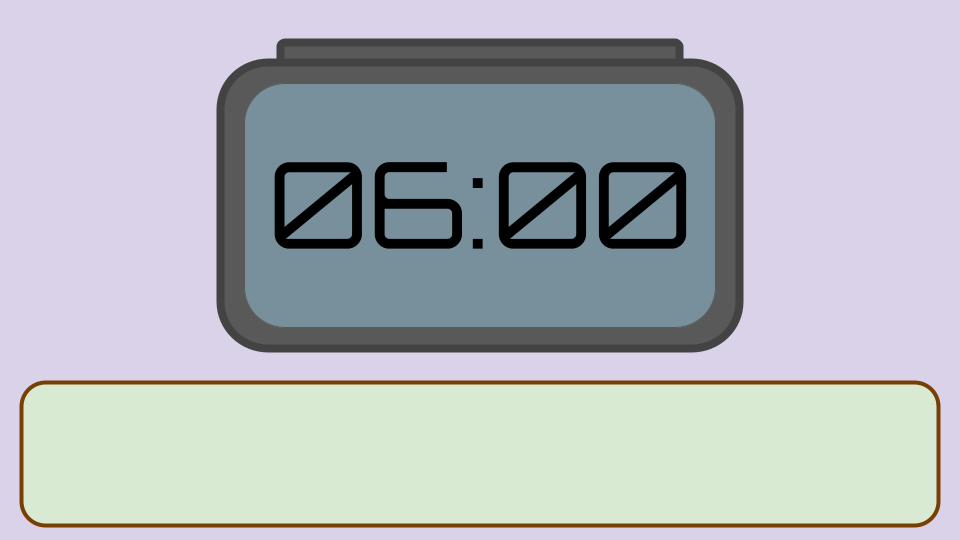
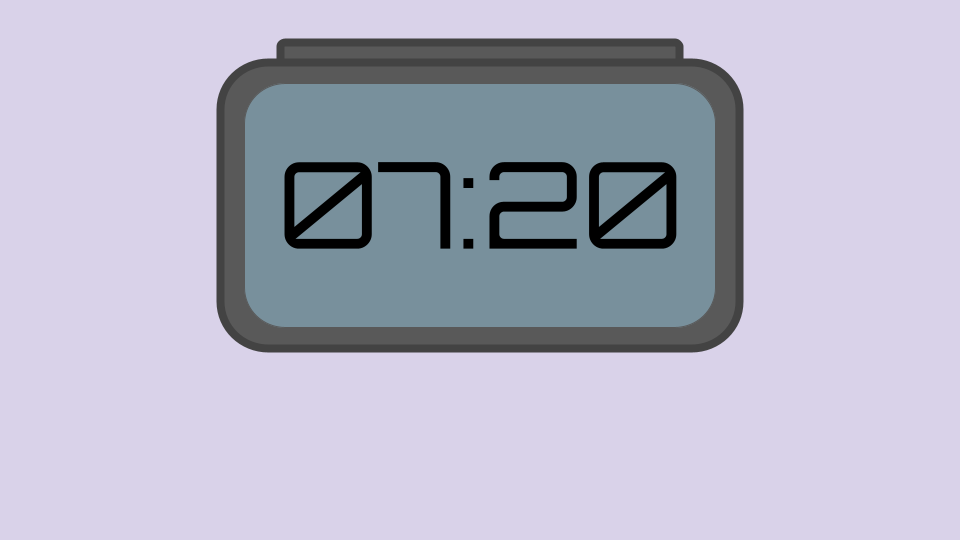
intro 1 2 3

Changed region(s): [[0.2812, 0.2963, 0.7188, 0.4741], [0.0, 0.6815, 1.0, 0.9481], [0.0312, 0.9481, 0.9688, 0.9778]]

diff --git a/src/intro2.html b/src/intro2.html
@@ -1,19 +1,33 @@
 <!DOCTYPE html>
+
+<link rel="stylesheet" href="style.css">
+
 <html>
+    <head>
+        <div class="container">
+            <div class="bg">
+                <a href="intro3.html">
+                    <img class="bg" src="images/intro2pic.png">
+                </a>
+                <div class="centeredbottomshort mctextbox">I am running a little late for class, good thing I have an electric bike!</div>
+            </div>
+        </div>
+    </head>
 <body>
 
-<button onclick="doAction()">Next</button>
-
 <p id="d1">Base Dialogue</p>
-
 <script>
 document.getElementById("d1").style.visibility = "hidden"
     let clickState = 0;
 
+    document.addEventListener("click", function() {
+        doAction();
+    });
+
     function doAction() {
         clickState++;
 	
-        if (clickState == 1 ) {
+        if (clickState == 1 ) {                 //add more elif statements
             document.getElementById("d1").style.visibility = "visible"
             document.getElementById("d1").innerHTML = "dialogue 1"
         } else if (clickState == 2 ) {
@@ -22,7 +36,7 @@ document.getElementById("d1").style.visibility = "hidden"
             document.getElementById("d1").innerHTML = "dialogue 3"
         } else if (clickState == 4 ) {
         	document.getElementById("d1").innerHTML = "dialogue 4"
-            clickState=0;
+            clickState=0;                       //restart
         } 
     }
 </script>

diff --git a/src/style.css b/src/style.css
@@ -11,6 +11,20 @@
     transform: translate(-50%, -50%);
 }
 
+.centeredbottomlong{
+    position: absolute;
+    bottom: -10%;
+    left: 50%;
+    transform: translate(-50%, -50%);
+}
+
+.centeredbottomshort{
+    position: absolute;
+    bottom: 0%;
+    left: 50%;
+    transform: translate(-50%, -50%); 
+}
+
 .bg {
     position: fixed;
     top: 0;
@@ -40,11 +54,16 @@ body, html{
     border-radius: 25px;
 }
 
-.textbox {
-    border-width: 3px;
+.mctextbox {
+    border-width: 10px;
+    border-radius: 20px;
+    font-size: 50px;
     border-style: solid;
-    border-color: #CBC3E3;
-    background-color: #CBC3E3;
+    font-family:Arial, Helvetica, sans-serif;
+    color: black;
+    border-color: #544B3E;
+    background-color: #F7DEB7;
+    margin-left: auto;
 }
 
 .center {
@@ -59,3 +78,12 @@ body, html{
 .body {
     background-color: #CBC3E3;
 }
+
+.dedbg {
+    background-color: #CBC3E3;
+}
+
+.header {
+    background-color:#CBC3E3;
+}
+

diff --git a/src/intro1.html b/src/intro1.html
@@ -6,20 +6,17 @@
     <script> src="script.js"</script>
     <h1>Hello <span id="name"></span></h1>
     <p>Pronouns: <span id="pronoun"></span></p>
-
-    
+    <script>
+        document.getElementById("name").textContent = name;
+        document.getElementById("pronoun").textContent = pronoun;
+    </script>
 
     <div class="container">
         <div class="bg">
             <a href="intro2.html">
                 <img class="bg" src="images/intro1pic.png">
             </a>
+            <div class="centeredbottomlong mctextbox">You are (name), a college student living in Trackers Hill Apartments.  It is 7:20 AM, time to get ready for school!</div>
         </div>
     </div>
-
-    <script>
-        name = document.getElementById("name");
-        pronoun = document.getElementById("pronoun");
-
-    </script>
 </head>

diff --git a/src/dedication.html b/src/dedication.html
@@ -9,10 +9,10 @@
         <a href="charactercreation.html">
             <img class="center" src="images/jerome.jpg" alt="Jerome the Bike">
         </a> 
-        <h3 id="d1" style="text-align: center">
+        <h1 id="d1" style="text-align: center">
              <em>In loving memory of Jerome <br>
              July 2023 - September 2023</em>
-        </em></h3>
+        </em></h1>
 
         <script>
             document.getElementById("d1").style.visibility = "hidden"

diff --git a/src/intro3.html b/src/intro3.html
@@ -1,0 +1,16 @@
+<!DOCTYPE html>
+
+<link rel="stylesheet" href="style.css">
+
+<head>
+    
+
+    <div class="container">
+        <div class="bg">
+            <a href="intro4.html">
+                <img class="bg" src="images/intro3pic.png">
+            </a>
+            <div class="centeredbottomshort mctextbox">Wait what...?</div>
+        </div>
+    </div>
+</head>

diff --git a/src/charactercreation.html b/src/charactercreation.html
@@ -17,9 +17,9 @@
 </form>
 
 <h4>Skin Color</h4>
-
-
-
+    <label for="colorpicker">Choose Skin Color: </label>
+    <input type="color" id="colorpicker" value="0000ff">
+    var skin = document.getElementById("colorpicker").value;
 <h4>Hair Color</h4>
 
 
